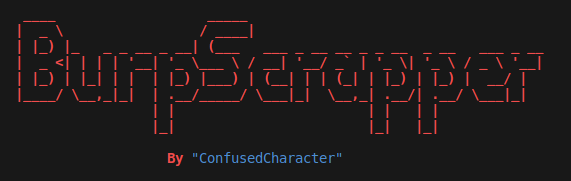
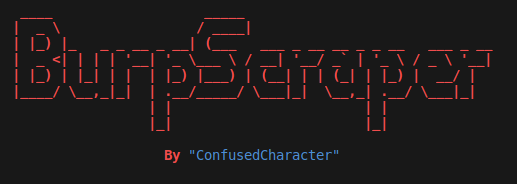
Update

Changed region(s): [[0.0309, 0.0829, 0.9594, 0.7459], [0.2785, 0.8011, 0.6499, 0.9116]]

diff --git a/burpscrapper.py b/burpscrapper.py
@@ -1,5 +1,5 @@
 # !/usr/bin/python3
-# BurpSuite Scrapper v1.1
+# BurpSuite Scraper v1.1
 # By ConfusedCharacter
 
 from xml.etree import ElementTree
@@ -92,7 +92,7 @@ def extract_burp_data(xml_file:str):
 def add_comments(extracted:ExtractedData):
     source = ""
     source += "# !/usr/bin/python3\n"                                       # Source Comments.
-    source += "# BurpSuite Scrapper v{}\n".format(__version__)
+    source += "# BurpSuite Scraper v{}\n".format(__version__)
     source += "# By ConfusedCharacter\n\n"
     source += "# BurpSuite Filename: \"{}\"\n".format(extracted.burpFile)
     source += "# Time: \"{}\"\n".format(extracted.time)
@@ -166,7 +166,9 @@ def convert_to_py(extracted:ExtractedData,comment_response_data:bool = False):
 
 
     return source
-    
+
+def convert_to_php(extracted:ExtractedData,comment_response_data:bool = False):
+    pass
 
 
 if __name__ == "__main__":
@@ -177,30 +179,35 @@ if __name__ == "__main__":
         del kernel32
     
     print(f"""{Colors.LIGHT_RED}
-  ____                   _____                                      
- |  _ \                 / ____|                                     
- | |_) |_   _ _ __ _ __| (___   ___ _ __ __ _ _ __  _ __   ___ _ __ 
- |  _ <| | | | '__| '_ \\___ \ / __| '__/ _` | '_ \| '_ \ / _ \ '__|
- | |_) | |_| | |  | |_) |___) | (__| | | (_| | |_) | |_) |  __/ |   
- |____/ \__,_|_|  | .__/_____/ \___|_|  \__,_| .__/| .__/ \___|_|   
-                  | |                        | |   | |              
-                  |_|                        |_|   |_|              
-
+  ____                   _____                                
+ |  _ \                 / ____|                               
+ | |_) |_   _ _ __ _ __| (___   ___ _ __ __ _ _ __   ___ _ __ 
+ |  _ <| | | | '__| '_ \\___ \ / __| '__/ _` | '_ \ / _ \ '__|
+ | |_) | |_| | |  | |_) |___) | (__| | | (_| | |_) |  __/ |   
+ |____/ \__,_|_|  | .__/_____/ \___|_|  \__,_| .__/ \___|_|   
+                  | |                        | |              
+                  |_|                        |_|              
+                  
                     By {Colors.BLUE}"ConfusedCharacter"
                     
 {Colors.END}""")
-    parser = argparse.ArgumentParser(description=f'[{Colors.BLUE}BurpSuite Scrapper{Colors.END} {Colors.CYAN}v{__version__}{Colors.END}] Convert {Colors.YELLOW}BrupSuite{Colors.END} "XML" to programming language.')
+    parser = argparse.ArgumentParser(description=f'[{Colors.BLUE}BurpSuite Scraper{Colors.END} {Colors.CYAN}v{__version__}{Colors.END}] Convert {Colors.YELLOW}BrupSuite{Colors.END} "XML" to programming language.')
     parser.add_argument('-f', '--file', help='Input BurpSuite XML File to convert')
     parser.add_argument('-c', '--comment', help='Comment Response data',default=False)
-    parser.add_argument('-l', '--language', help=f'Input language: {Colors.YELLOW}python{Colors.END}',default="python")
-    parser.add_argument('-o', '--output', help='Output file after convert',default="BurpScrapper_result.py")
+    parser.add_argument('-l', '--language', help=f'Input language: {Colors.YELLOW}python{Colors.END},{Colors.YELLOW}php{Colors.END}',default="python")
+    parser.add_argument('-o', '--output', help='Output file after convert',default="BurpScraper_result.py")
     args = parser.parse_args()
 
     if args.file:
         extracted = extract_burp_data(args.file)
         print(f"[{Colors.GREEN}+{Colors.END}] Reading \"{args.file}\"...")
-        source = convert_to_py(extracted,comment_response_data=args.comment)
-        print(f"[{Colors.GREEN}+{Colors.END}] Converting to \"Python\"...")
+        if args.language.lower() == "python":
+            source = convert_to_py(extracted,comment_response_data=args.comment)
+            print(f"[{Colors.GREEN}+{Colors.END}] Converting to \"Python\"...")
+        elif args.language.lower() == "python":
+            source = convert_to_py(extracted,comment_response_data=args.comment)
+            print(f"[{Colors.GREEN}+{Colors.END}] Converting to \"PHP\"...")
+
         with open(args.output,"w") as file:
             file.write(source)
             file.close()

diff --git a/README.md b/README.md
@@ -1,7 +1,7 @@
-# BurpSuite-Scrapper
+# BurpSuite-Scraper
 Convert your BurpSuite XML to Programming Language fast !
 
-![pic](https://raw.githubusercontent.com/ConfusedCharacter/BurpSuite-Scrapper/main/shot/1.png)
+![pic](https://raw.githubusercontent.com/ConfusedCharacter/BurpSuite-Scraper/main/shot/1.png)
 # This project is under development.
 
-![pic](https://raw.githubusercontent.com/ConfusedCharacter/BurpSuite-Scrapper/main/shot/2.png)
+![pic](https://raw.githubusercontent.com/ConfusedCharacter/BurpSuite-Scraper/main/shot/2.png)
